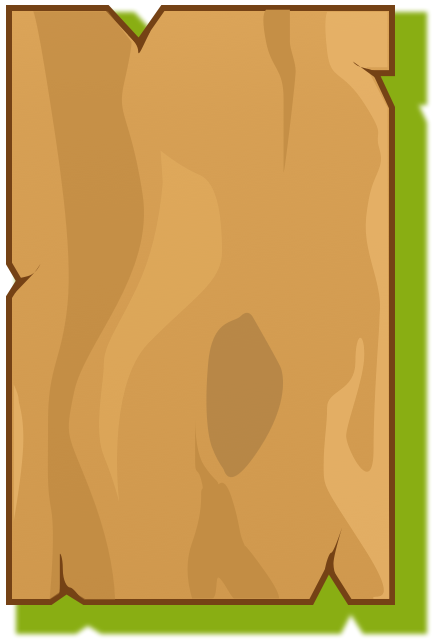
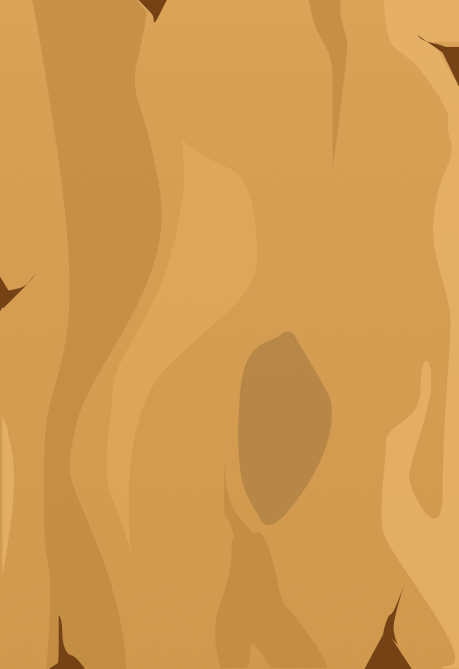
Student login beta

Changed region(s): [[0.0, 0.0, 1.0, 1.0], [0.4793, 0.4673, 0.7189, 0.81]]

diff --git a/public/stylesheets/studentli.css b/public/stylesheets/studentli.css
@@ -1,5 +1,6 @@
 h1 {
     /* POMO: */
+    padding-top: 10%;
     font-family: Skranji;
     font-size: 64px;
     color: #754215;
@@ -8,6 +9,7 @@ h1 {
 }
 
 h2 {
+    padding-top: 30%;
     font-family: Skranji;
     color: #754215;
     text-align: left;
@@ -17,15 +19,20 @@ body {
     background: #9ABF17;
 }
 
-#wood-panel {
-    /* background-image: url("../images/Slice.png");
-    background-repeat: no-repeat; */
+form {
+    margin-top: 10%;
+}
+
+#wood-panel { 
+    margin-top: 10%;
+    background-image: url("../images/Slice.png");
+    background-repeat: no-repeat;
+    background-position: center;
     max-width: 440px;
     width: 100%;
     max-height: 100%;
     height: 650px;
-    margin-top: 10%;
-    background-image: linear-gradient(-180deg, #E9B366 0%, #D79F54 47%, #D0984E 100%);
+    /* background-image: linear-gradient(-180deg, #E9B366 0%, #D79F54 47%, #D0984E 100%); */
     border: 6px solid #754215;
     box-shadow: 21px 18px 5px 11px #89AE13;
     text-align: center;
@@ -33,6 +40,7 @@ body {
 
 .kids-login-btn {
     /* Sign In-Button: */
+    margin-top: 10%;
     background-image: linear-gradient(-180deg, #9ABF17 0%, #8EB314 68%, #89AE13 100%);
     border: 2px solid #89AE13;
     box-shadow: 3px 6px 11px 0 #754215;
@@ -59,4 +67,5 @@ body {
     letter-spacing: 0;
     text-align: left;
     color: #ffffff;
+    
 }
